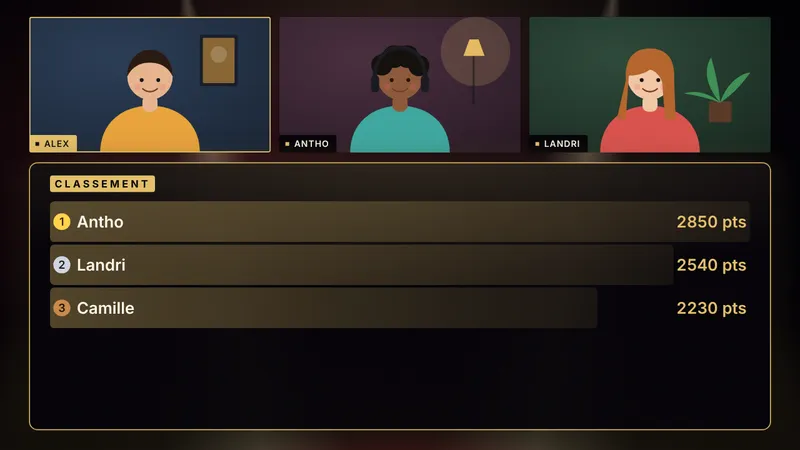
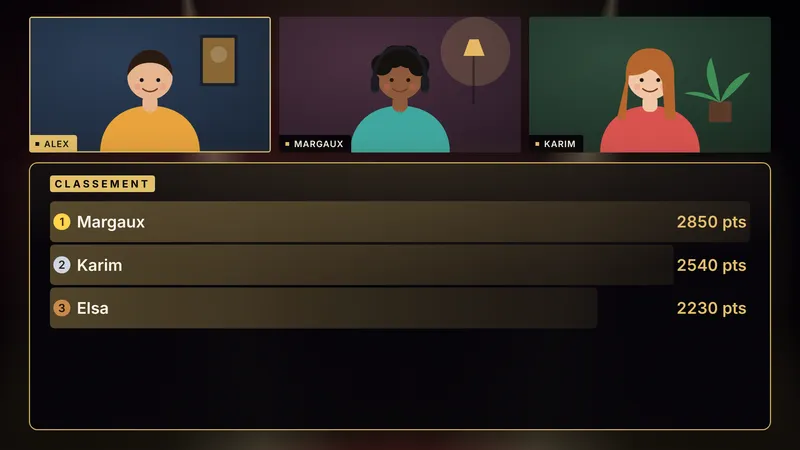
Quiz : podium centré, vertical plus grand et plus stylé (le chat en bandeau), prénoms de démo remplacés (Margaux, Karim, Elsa), images de l'accueil refaites
Claude-Session: https://claude.ai/code/session_01R6M1rEWyxs5sPwVEzkARcV

diff --git a/js/sortie.js b/js/sortie.js
@@ -1022,7 +1022,7 @@ if (PREVIEW && window.parent !== window) setInterval(() => { const b = fichierDe
 
 /* ----- Démarrage ----- */
 if (DEMO) {
-  const noms = [session.hote, 'Antho', 'Landri', 'Camille', 'Yanis', 'Léa', 'Malik', 'Inès', 'Hugo', 'Sarah', 'Nora', 'Théo', 'Jade', 'Lucas', 'Emma', 'Rayan', 'Chloé', 'Adam', 'Lina'];
+  const noms = [session.hote, 'Margaux', 'Karim', 'Elsa', 'Yanis', 'Léa', 'Malik', 'Inès', 'Hugo', 'Sarah', 'Nora', 'Théo', 'Jade', 'Lucas', 'Emma', 'Rayan', 'Chloé', 'Adam', 'Lina'];
   const st = etatParDefaut(session);
   st.scene = SCENE_FORCEE || 'live';
   st.noms = {}; st.onair = [];
@@ -1033,14 +1033,14 @@ if (DEMO) {
   if (Q.get('defilant')) st.defilant = { texte: Q.get('defilant'), actif: true };
   st.layout = Q.get('layout') || 'grille';
   if (Q.get('visibles')) st.visibles = st.onair.slice(0, +Q.get('visibles'));
-  if (Q.get('quiz')) st.quiz = { dispo: Q.get('qdispo') || 'centre', active: { qid: 'd', q: Q.get('qlong') ? 'Dans quel film, sorti en 2006 et réalisé par Martin Campbell, Daniel Craig enfile-t-il pour la toute première fois le smoking de James Bond ?' : 'Dans quel film Daniel Craig devient-il 007 ?', choix: ['Casino Royale', 'Skyfall', 'Spectre', 'Quantum of Solace'], duree: 15, debut: Date.now() - (+Q.get('qecoule') || 0) * 1000, revele: Q.get('quiz') === 'revele', bonne: 0, resultats: [{ nom: 'Antho', ms: 2300, pts: 1023 }, { nom: 'Camille', ms: 4100, pts: 863 }, { nom: 'Landri', ms: 7800, pts: 740 }], votes: [3, 1, 0, 1], nbRep: Q.get('quiz') === 'revele' ? 5 : 3, img: /^img\/demo\/[\w-]+\.(svg|webp|jpg|png)$/.test(Q.get('qimg') || '') ? Q.get('qimg') : null, public: Q.get('qpub') ? { revele: true, pct: +Q.get('qpub').split(',')[0] || 0, n: +Q.get('qpub').split(',')[1] || 0 } : null }, style: Q.get('qstyle') || 'theme' };
-  if (Q.get('st')) setTimeout(() => afficherST({ ecran: true, l: [{ nom: 'Antho', c: Q.get('st') === 'neutre' ? '' : '#FFD84D', t: 'Franchement, le deuxième film est encore meilleur que le premier.' }, { nom: (etat && etat.hote) || 'Alex', c: Q.get('st') === 'neutre' ? '' : '#FFFFFF', t: 'Attends, tu oublies la scène du ver des sables, elle est folle' }] }), 600);
+  if (Q.get('quiz')) st.quiz = { dispo: Q.get('qdispo') || 'centre', active: { qid: 'd', q: Q.get('qlong') ? 'Dans quel film, sorti en 2006 et réalisé par Martin Campbell, Daniel Craig enfile-t-il pour la toute première fois le smoking de James Bond ?' : 'Dans quel film Daniel Craig devient-il 007 ?', choix: ['Casino Royale', 'Skyfall', 'Spectre', 'Quantum of Solace'], duree: 15, debut: Date.now() - (+Q.get('qecoule') || 0) * 1000, revele: Q.get('quiz') === 'revele', bonne: 0, resultats: [{ nom: 'Margaux', ms: 2300, pts: 1023 }, { nom: 'Elsa', ms: 4100, pts: 863 }, { nom: 'Karim', ms: 7800, pts: 740 }], votes: [3, 1, 0, 1], nbRep: Q.get('quiz') === 'revele' ? 5 : 3, img: /^img\/demo\/[\w-]+\.(svg|webp|jpg|png)$/.test(Q.get('qimg') || '') ? Q.get('qimg') : null, public: Q.get('qpub') ? { revele: true, pct: +Q.get('qpub').split(',')[0] || 0, n: +Q.get('qpub').split(',')[1] || 0 } : null }, style: Q.get('qstyle') || 'theme' };
+  if (Q.get('st')) setTimeout(() => afficherST({ ecran: true, l: [{ nom: 'Margaux', c: Q.get('st') === 'neutre' ? '' : '#FFD84D', t: 'Franchement, le deuxième film est encore meilleur que le premier.' }, { nom: (etat && etat.hote) || 'Alex', c: Q.get('st') === 'neutre' ? '' : '#FFFFFF', t: 'Attends, tu oublies la scène du ver des sables, elle est folle' }] }), 600);
   if (Q.get('st')) st.st = { actif: true, ecran: true };
   if (Q.get('ststyle') === 'cinema') document.body.classList.add('st-cinema');   // démo : sous-titres façon film, sans boîte
   if (Q.get('watch')) st.watch = { titre: (Q.get('wtitre') || 'Dune : Deuxième Partie').slice(0, 60), pos: 2537, ref: Date.now(), lecture: Q.get('watch') !== 'pause', duree: Q.get('wsans') ? 0 : 9960, top: Q.get('watch') === 'top' ? Date.now() + 3600 : null, pastille: true, style: Q.get('wstyle') || 'bandeau', mode: Q.get('wmode') || 'ecoule', episode: Q.get('wep') || '' };
-  if (Q.get('fil')) st.chatFil = { actif: true, msgs: [{ p: 'youtube', a: 'Camille', t: 'Salut tout le monde !' }, { p: 'twitch', a: 'BondFan_007', t: 'Daniel Craig reste le meilleur Bond, Casino Royale est un chef-d\'œuvre.' }, { p: 'youtube', a: 'Malik', t: 'Vous parlez de Skyfall à quelle heure ?' }, { p: 'twitch', a: 'lea_cine', t: 'Team Sean Connery ici' }, { p: 'youtube', a: 'Hugo', t: 'La scène du train est incroyable' }] };
+  if (Q.get('fil')) st.chatFil = { actif: true, msgs: [{ p: 'youtube', a: 'Elsa', t: 'Salut tout le monde !' }, { p: 'twitch', a: 'BondFan_007', t: 'Daniel Craig reste le meilleur Bond, Casino Royale est un chef-d\'œuvre.' }, { p: 'youtube', a: 'Malik', t: 'Vous parlez de Skyfall à quelle heure ?' }, { p: 'twitch', a: 'lea_cine', t: 'Team Sean Connery ici' }, { p: 'youtube', a: 'Hugo', t: 'La scène du train est incroyable' }] };
   if (Q.get('chat')) { st.chatAffiche = { p: Q.get('chat'), auteur: 'BondFan_007', texte: Q.get('clong') ? 'Question pour l\'invité : c\'est quoi le film que tu as le plus revu dans ta vie, et pourquoi tu y reviens toujours, même en connaissant chaque réplique par cœur ?' : 'Daniel Craig reste le meilleur Bond, Casino Royale est un chef-d\'œuvre !', ts: 1 }; st.chatStyle = Q.get('cstyle') || 'bulle'; }
-  if (Q.get('classement')) st.quiz = { style: Q.get('qstyle') || 'theme', dispo: Q.get('qdispo') || 'centre', afficherScores: true, classement: ['Antho', 'Landri', 'Camille', 'Yanis', 'Léa', 'Malik', 'Inès', 'Hugo'].slice(0, +Q.get('classement') > 1 ? +Q.get('classement') : 3).map((nom, i) => ({ nom, pts: 2850 - i * 310 })) };
+  if (Q.get('classement')) st.quiz = { style: Q.get('qstyle') || 'theme', dispo: Q.get('qdispo') || 'centre', afficherScores: true, classement: ['Margaux', 'Karim', 'Elsa', 'Yanis', 'Léa', 'Malik', 'Inès', 'Hugo'].slice(0, +Q.get('classement') > 1 ? +Q.get('classement') : 3).map((nom, i) => ({ nom, pts: 2850 - i * 310 })) };
   if (Q.get('qr')) st.qr = { lien: 'https://seb77330.github.io/obseb/', titre: Q.get('qrtitre') ?? 'Abonne-toi à la chaîne', coin: Q.get('qr'), taille: Q.get('qrtaille') || 'm', ts: 1, jouer: Q.get('qrjouer') === '1' };
   if (Q.get('intro')) st.introStyle = Q.get('intro');
   if (Q.get('outro')) st.outroStyle = Q.get('outro');
@@ -1063,10 +1063,10 @@ function demoVivante(st) {
   setInterval(() => { const g = gens(); if (g.length > 1) g[qui % g.length].niveau = 40; }, 150);
   setInterval(() => { qui++; }, 2300);
   const MSGS = [
-    ['youtube', 'Camille', 'Le générique est incroyable 🔥'],
+    ['youtube', 'Elsa', 'Le générique est incroyable 🔥'],
     ['twitch', 'BondFan_007', 'Casino Royale, meilleur Bond, point final.'],
     ['youtube', 'lea_cine', 'Vous faites ça chaque semaine ? Je reviens !'],
-    ['twitch', 'Malik', 'Team Antho sur ce débat 😂']
+    ['twitch', 'Malik', 'Team Margaux sur ce débat 😂']
   ];
   setInterval(() => {
     tour++;

diff --git a/css/quiz.css b/css/quiz.css
@@ -197,10 +197,32 @@
 .qz-public.entree { animation: qz-pose .45s both; }
 [data-quiz-style="clair"] .qz-cote { color: #222; }
 [data-quiz-style="clair"] .qzp-barre { background: rgba(0,0,0,.1); }
-/* vertical : la colonne passe sous les réponses, en ligne (code à gauche, texte à droite) */
-body.vertical .qz-cote { --qj: 170px; width: auto; flex-direction: row; flex-wrap: wrap; padding: 14px 0 0; border-left: 0; border-top: 1px solid color-mix(in srgb, var(--accent) 35%, transparent); gap: 10px 22px; }
-body.vertical .qzc-tag { width: 100%; }
-body.vertical .qzc-jeu { flex-direction: row; gap: 18px; text-align: left; }
-body.vertical .qzc-jeu .qzj-code { margin: 0; }
-body.vertical .qzc-jeu b, body.vertical .qzc-jeu small { display: block; }
-body.vertical .qz-public { width: 80%; }
+/* ----- Vertical (TikTok, Shorts) : une carte plus grande et plus stylée, le chat en bandeau sous les réponses ----- */
+body.vertical .qz-panneau { padding: 26px 28px 26px; border-radius: 30px; }
+body.vertical .qz-tete { margin-bottom: 10px; }
+body.vertical .qz-q { font-size: 46px; line-height: 1.1; text-align: center; text-wrap: balance; margin: 4px 0 24px; }
+body.vertical .qz-choix { gap: 12px; }
+body.vertical .qz-c { font-size: 31px; padding: 15px 20px; border-radius: 18px; gap: 18px; }
+body.vertical .qz-c b { width: 50px; height: 50px; font-size: 25px; border-radius: 13px; }
+body.vertical #quiz.avec-image .qz-choix { grid-template-columns: 1fr 1fr; }
+body.vertical #quiz.avec-image .qz-c { font-size: 26px; padding: 12px 14px; }
+body.vertical #quiz.avec-image .qz-q { font-size: 38px; margin-bottom: 16px; }
+body.vertical .qz-cote { --qj: 128px; width: auto; flex-direction: column; align-items: stretch; gap: 10px; margin-top: 22px; padding: 16px 22px 18px; border: 0; border-radius: 22px;
+  background: color-mix(in srgb, var(--accent) 13%, transparent); box-shadow: inset 0 0 0 2px color-mix(in srgb, var(--accent) 45%, transparent); text-align: left; }
+body.vertical .qzc-tag { font-size: 17px; }
+body.vertical .qzc-jeu { flex-direction: row; align-items: center; gap: 24px; }
+body.vertical .qzj-code { margin: 0; flex: none; }
+body.vertical .qzc-jeu b { font-size: 40px; color: var(--accent); }
+body.vertical .qzc-jeu small { font-size: 23px; opacity: .8; }
+body.vertical .qzc-jeu small::after { content: ' ou ouvre le lien dans le chat'; }
+body.vertical .qz-public { display: grid; grid-template-columns: auto 1fr; grid-template-areas: 'pct txt' 'pct n' 'bar bar'; column-gap: 22px; row-gap: 2px; align-items: center; text-align: left; }
+body.vertical .qz-public[hidden] { display: none; }
+body.vertical .qzp-pct { grid-area: pct; font-size: 84px; }
+body.vertical .qzp-txt { grid-area: txt; font-size: 30px; align-self: end; }
+body.vertical .qzp-n { grid-area: n; font-size: 22px; align-self: start; }
+body.vertical .qzp-barre { grid-area: bar; height: 12px; margin: 12px 0 0; }
+
+/* ----- Le podium centré entre la ligne grise et le bord du cadre (même écart au-dessus et en dessous) ----- */
+.qz-res { margin-top: 18px; min-height: 0; }
+[data-quiz-dispo="libre"] .qz-res { margin-top: calc(var(--ph) * .05); }
+body.vertical .qz-res { margin-top: 26px; }

diff --git a/sortie.html b/sortie.html
@@ -10,7 +10,7 @@
 <link rel="icon" href="img/mesa-icone.svg" type="image/svg+xml">
 <link rel="apple-touch-icon" href="img/mesa-icone-180.png">
 <link rel="stylesheet" href="css/scene.css?v=977d7214">
-<link rel="stylesheet" href="css/quiz.css?v=a41eb472">
+<link rel="stylesheet" href="css/quiz.css?v=910034b9">
 <link rel="stylesheet" href="css/extras.css?v=cc70c5b3">
 <link rel="stylesheet" href="css/watch.css?v=46427282">
 <link rel="stylesheet" href="css/habillages.css?v=3b0b3d2a">
@@ -92,10 +92,10 @@
 </div>
 <script src="js/vendor/qrcode.js?v=105f38a7"></script>
 <script src="js/effets.js?v=fd6c30a8"></script>
-<script src="js/common.js?v=a896b6c9"></script>
+<script src="js/common.js?v=9aa86583"></script>
 <script src="js/fonds3d.js?v=3f9e3809"></script>
 <script src="js/habillages.js?v=c066d580"></script>
-<script src="js/sortie.js?v=2866cd4d"></script>
+<script src="js/sortie.js?v=7ba20fe6"></script>
 <script src="js/whip.js?v=92db7912"></script>
 <script src="js/diffusion.js?v=4531c71d"></script>
 </body>

diff --git a/regie.html b/regie.html
@@ -1147,7 +1147,7 @@
 </div>
 <script src="js/vendor/qrcode.js?v=105f38a7"></script>
 <script src="js/effets.js?v=fd6c30a8"></script>
-<script src="js/common.js?v=a896b6c9"></script>
+<script src="js/common.js?v=9aa86583"></script>
 <script src="js/reglages-media.js?v=150f2489"></script>
 <script src="js/sous-titres.js?v=923d3b0d"></script>
 <script src="js/regie.js?v=46ac63df"></script>
@@ -1162,7 +1162,7 @@
 <script src="js/regie-essai.js?v=cc78e443"></script>
 <script src="js/regie-qr.js?v=2cc8d871"></script>
 <script src="js/regie-public.js?v=05e42570"></script>
-<script src="js/regie-chat.js?v=8c15b056"></script>
+<script src="js/regie-chat.js?v=5bfb075f"></script>
 <script src="js/regie-comptes.js?v=23f74648"></script>
 <script src="js/whip.js?v=92db7912"></script>
 <script src="js/regie-diffusion.js?v=e157c263"></script>

diff --git a/js/regie-chat.js b/js/regie-chat.js
@@ -66,7 +66,7 @@ $('#chat-masquer').onclick = masquerMessageChat;
 
 /* Message de test : pour essayer le chat et la mise en avant sans attendre un vrai message */
 const ESSAIS_CHAT = [
-  ['Camille', 'Salut ! On vous entend super bien, vous parlez de quel film ce soir ?'],
+  ['Elsa', 'Salut ! On vous entend super bien, vous parlez de quel film ce soir ?'],
   ['BondFan_007', 'Daniel Craig reste le meilleur Bond, Casino Royale est un chef-d\'œuvre !'],
   ['lea_cine', 'Trop bien ce live, continuez !'],
   ['Malik', 'Question pour l\'invité : c\'est quoi le film que tu as le plus revu dans ta vie, et pourquoi tu y reviens toujours ?'],

diff --git a/js/common.js b/js/common.js
@@ -418,7 +418,7 @@ const estEcran = id => /_ecran\d$|ecr$/.test(id);
 /* Invités de test : de faux invités avec une fausse caméra dessinée, pour voir les scènes quand on est seul (1 à 4) */
 const idFaux = (s, n) => s.room + '_test' + n;
 const estFaux = id => /_test[1-4]$/.test(id);
-const NOMS_FAUX = ['Camille', 'Antho', 'Inès', 'Yanis'];
+const NOMS_FAUX = ['Elsa', 'Margaux', 'Inès', 'Yanis'];
 const fauxNumero = id => +String(id).slice(-1);
 const imageFaux = id => personnage([2, 0, 4, 1][(fauxNumero(id) - 1) % 4], true);   // un personnage différent par invité de test
 

diff --git a/index.html b/index.html
@@ -780,7 +780,7 @@
     <button type="button" data-format="txt">Texte</button>
   </div>
 </dialog>
-<script src="js/common.js?v=a896b6c9"></script>
+<script src="js/common.js?v=9aa86583"></script>
 <script src="js/vendor/supabase-2.119.0.umd.js?v=4bc1644c"></script>
 <script src="js/comptes-config.js?v=014eeea5"></script>
 <script src="js/comptes.js?v=449b0824"></script>

diff --git a/contact.html b/contact.html
@@ -53,7 +53,7 @@
   </div>
   <p style="margin-top:36px" class="doux">Avant d'écrire, la <a href="faq.html">FAQ</a> a peut-être déjà la réponse.</p>
 </main>
-<script src="js/common.js?v=a896b6c9"></script>
+<script src="js/common.js?v=9aa86583"></script>
 <script src="js/aide-config.js?v=85ddffac"></script>
 <script src="js/contact.js?v=f9122cfe"></script>
 </body>

diff --git a/faq.html b/faq.html
@@ -38,7 +38,7 @@
     <div id="faq-mail"></div>
   </section>
 </main>
-<script src="js/common.js?v=a896b6c9"></script>
+<script src="js/common.js?v=9aa86583"></script>
 <script src="js/aide-config.js?v=85ddffac"></script>
 <script src="js/aide-faq.js?v=657169ea"></script>
 <script src="js/aide.js?v=401ae0ec" data-place="aucune"></script>

diff --git a/cgu.html b/cgu.html
@@ -89,7 +89,7 @@
 
   <p style="margin-top:36px"><a href="index.html">Retour à l'accueil</a></p>
 </main>
-<script src="js/common.js?v=a896b6c9"></script>
+<script src="js/common.js?v=9aa86583"></script>
 <script src="js/aide-config.js?v=85ddffac"></script>
 <script src="js/confidentialite.js?v=cc2ebb28"></script>
 </body>

diff --git a/confidentialite.html b/confidentialite.html
@@ -65,7 +65,7 @@
 
   <p style="margin-top:36px"><a href="index.html">Retour à mes lives</a></p>
 </main>
-<script src="js/common.js?v=a896b6c9"></script>
+<script src="js/common.js?v=9aa86583"></script>
 <script src="js/aide-config.js?v=85ddffac"></script>
 <script src="js/confidentialite.js?v=cc2ebb28"></script>
 </body>

diff --git a/connexion.html b/connexion.html
@@ -65,7 +65,7 @@
     </div>
   </div>
 </main>
-<script src="js/common.js?v=a896b6c9"></script>
+<script src="js/common.js?v=9aa86583"></script>
 <script src="js/vendor/supabase-2.119.0.umd.js?v=4bc1644c"></script>
 <script src="js/comptes-config.js?v=014eeea5"></script>
 <script src="js/comptes.js?v=449b0824"></script>
